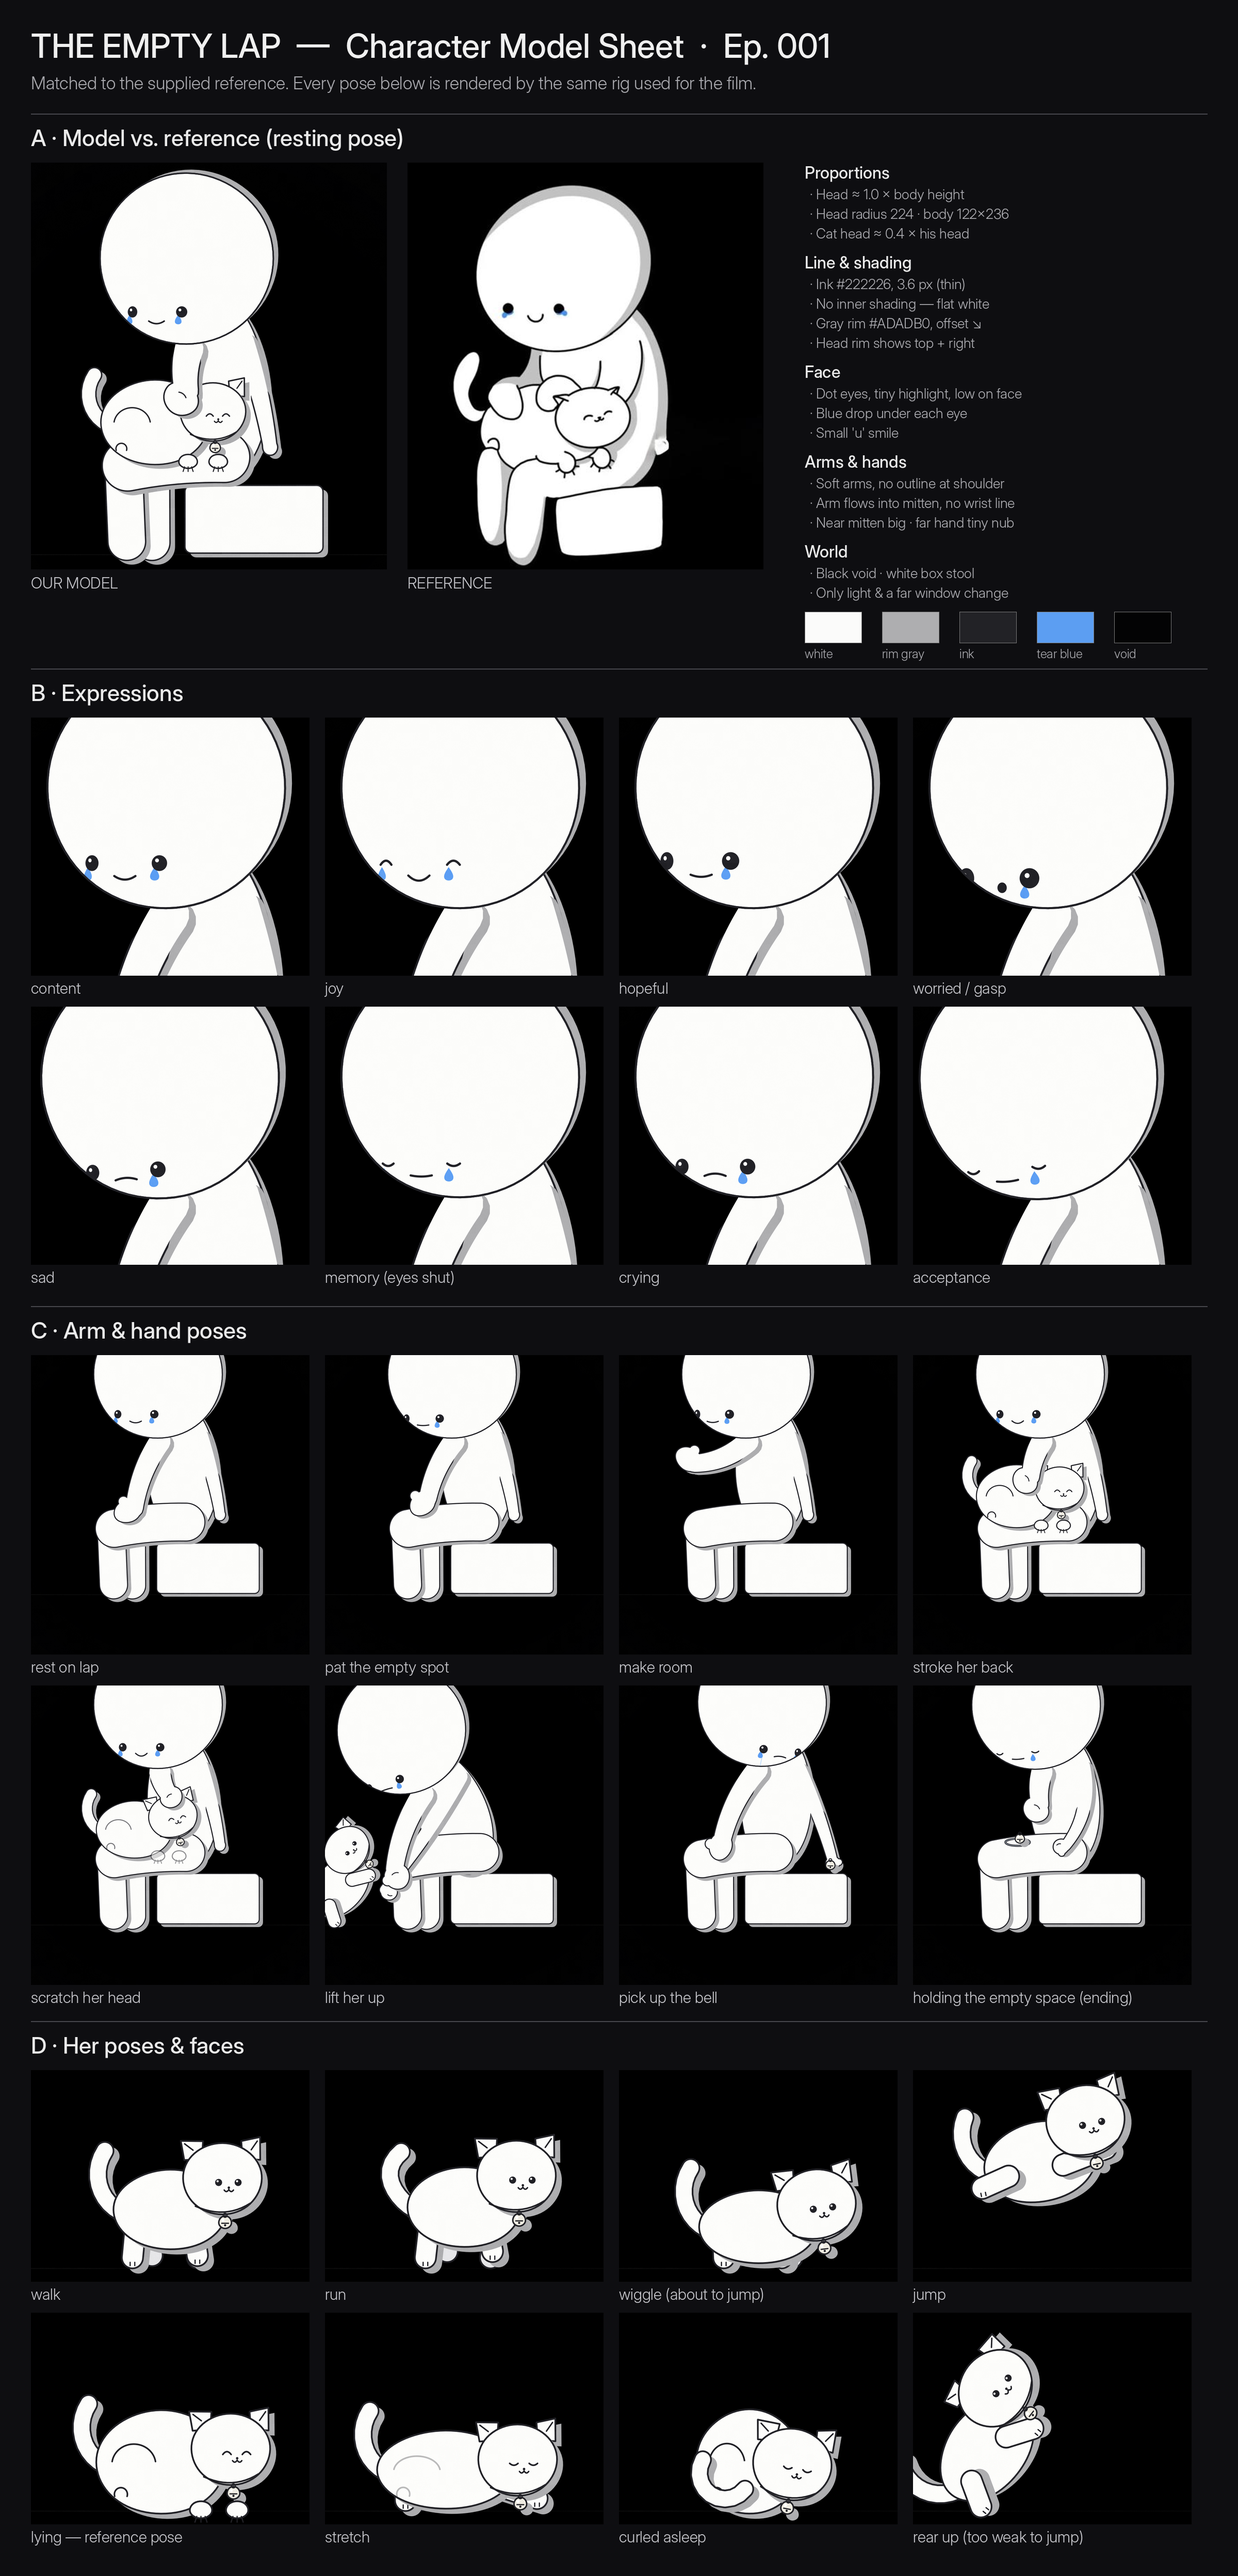
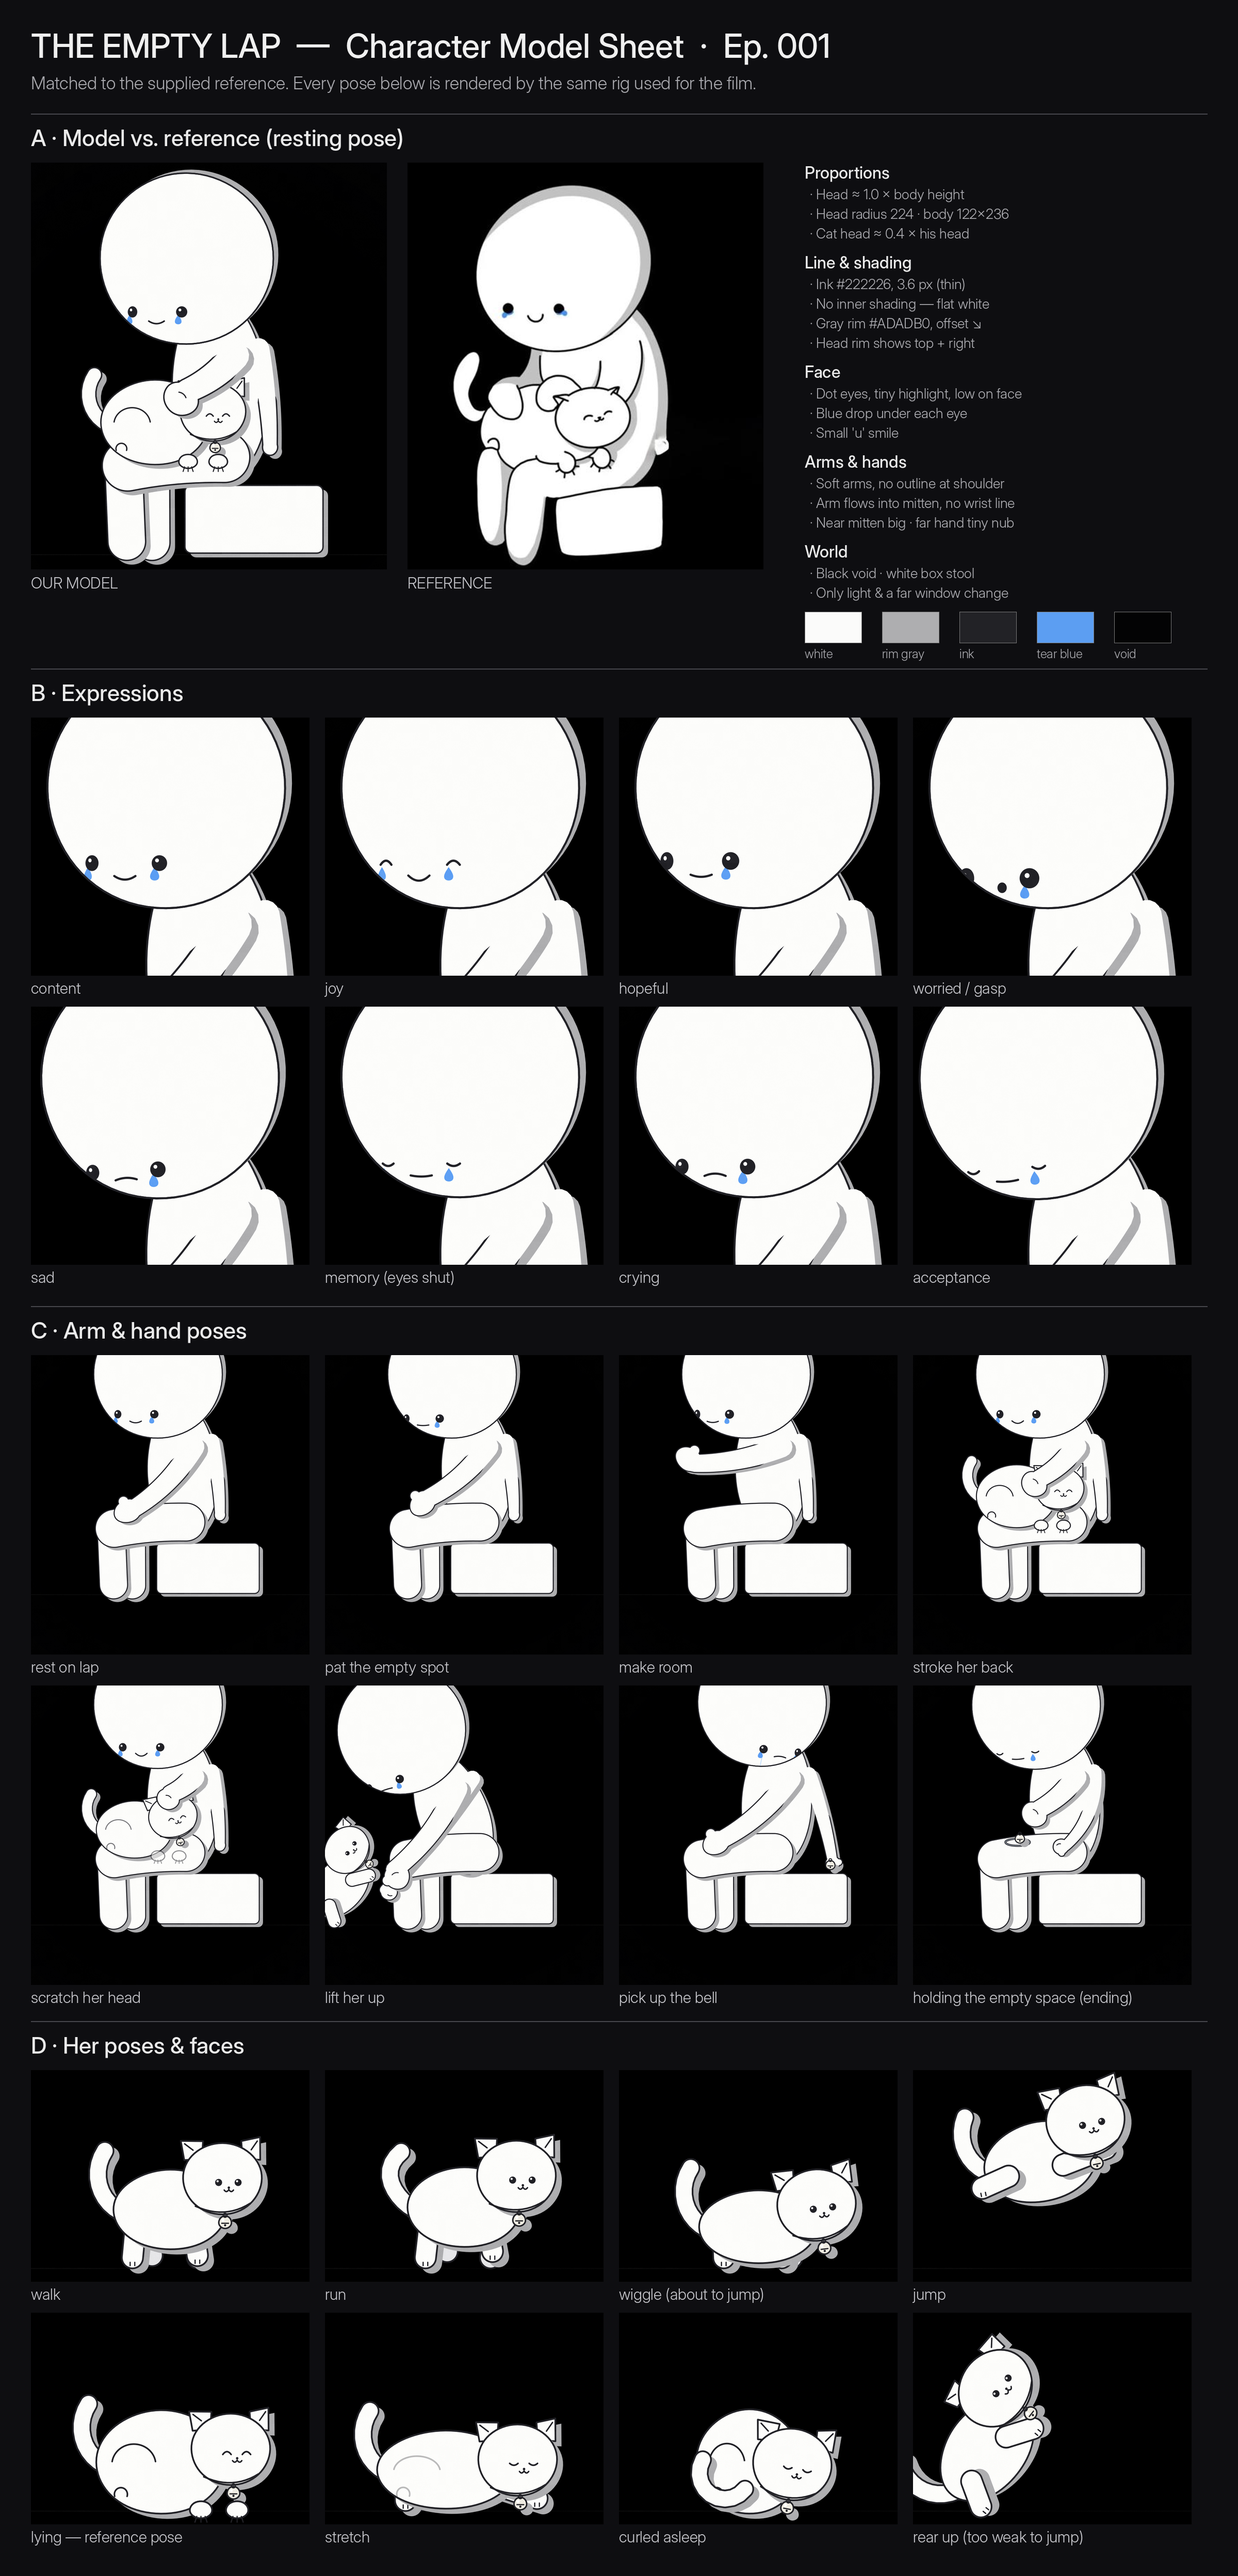
Move shoulders to the back of the torso; flip elbow bend; refresh character sheet
Claude-Session: https://claude.ai/code/session_018oS6WqQMgN1yqbFJbsPtb4

diff --git a/empty-lap/src/charsheet.py b/empty-lap/src/charsheet.py
@@ -137,11 +137,11 @@ def main(out):
         ("rest on lap", dict(near_hand=(470, 1392), near_hand_ang=2.75, near_style='rest'), None, None),
         ("pat the empty spot", dict(near_hand=(468, 1358), near_hand_ang=2.4, near_style='rest', pitch=0.2,
                                     yaw=-0.55, mouth=0.2), None, None),
-        ("make room", dict(near_hand=(372, 1236), near_hand_ang=-2.5, near_style='rest', near_bow=-0.18,
+        ("make room", dict(near_hand=(372, 1236), near_hand_ang=-2.5, near_style='rest', near_bow=-0.10,
                            yaw=-0.62, mouth=0.42, eye_scale=1.08), None, None),
-        ("stroke her back", dict(near_hand=(520, 1282), near_hand_ang=2.5, near_style='curl', mouth=0.9),
+        ("stroke her back", dict(near_hand=(548, 1290), near_hand_ang=2.3, near_style='curl', mouth=0.9),
          cat_on_lap(), None),
-        ("scratch her head", dict(near_hand=(586, 1232), near_hand_ang=0.9, near_style='curl', near_hr=34,
+        ("scratch her head", dict(near_hand=(596, 1236), near_hand_ang=2.0, near_style='curl', near_hr=34,
                                   mouth=1.0, yaw=-0.3, pitch=0.12), cat_on_lap(head_tilt=0.22, lie=0.6), None),
         ("lift her up", dict(lean=-0.30, crouch=0.65, near_hand=(352, 1500), near_hand_ang=1.2,
                              near_style='cup', far_hand=(318, 1570), far_style='cup', far_hr=26,
@@ -149,7 +149,7 @@ def main(out):
          cat_floor(x=276, rot=0.85, jump=0.5, ear_down=0.5, head_tilt=0.1), None),
         ("pick up the bell", dict(lean=0.10, yaw=0.45, pitch=0.3, far_hand=(852, 1462), far_style='grip',
                                   far_hr=24, far_hand_ang=1.4, mouth=-0.35, tear=1.0), None, 'hand'),
-        ("holding the empty space (ending)", dict(near_hand=(552, 1272), near_hand_ang=2.2, near_style='curl',
+        ("holding the empty space (ending)", dict(near_hand=(548, 1290), near_hand_ang=2.3, near_style='curl',
                                      far_hand=(640, 1418), far_hand_ang=3.0, far_style='cup', far_hr=24,
                                      far_bow=-0.25, blink=1.0, pitch=0.30, mouth=0.18, head_tilt=-0.06,
                                      tear=1.0), None, 'lap'),

diff --git a/empty-lap/src/scenes.py b/empty-lap/src/scenes.py
@@ -69,7 +69,7 @@ def look(L, bell='box', **kw):
 def char_base(t, seed=1, rate=1 / 3.6):
     return dict(yaw=-0.40, pitch=0.0, mouth=0.6, near_hand=REST_N, far_hand=REST_F,
                 breath=TAU * t * rate, blink=blink_auto(t, seed), closed_style='soft',
-                near_bow=0.12, far_bow=-0.10)
+                near_bow=-0.12, far_bow=-0.10)
 
 
 def cat_base(t):
@@ -333,7 +333,7 @@ def s4(t):
         w = seg(u, 5.0, 5.75)
         C['near_hand'] = lerp(kf(u, [(5.0, ROOM_N), (5.5, (420, 1360))]), (chest[0] - 10, chest[1]), w)
         C['far_hand'] = lerp(REST_F, (belly[0] + 10, belly[1] + 18), w)
-        C['near_bow'] = 0.18
+        C['near_bow'] = -0.16
     elif u >= 7.3:
         hd, _, _, _ = rig.cat_head_world(K)
         sp = ((u - 8.6) % 2.4) / 2.4 if u > 8.6 else 0.0
@@ -435,7 +435,7 @@ def s7(t):
                            (2.6, (505, 1355)), (3.6, (508, 1338))])
     C['far_bow'] = kf(u, [(0, -0.10), (1.2, -0.16), (2.3, 0.10), (3.6, 0.22)])
     C['near_hand'] = kf(u, [(0, REST_N), (2.3, REST_N), (3.6, (446, 1342))])
-    C['near_bow'] = kf(u, [(2.3, 0.12), (3.6, 0.55)])
+    C['near_bow'] = kf(u, [(2.3, -0.12), (3.6, -0.20)])
     C['sigh'] = window(u, 2.8, 3.6, 0.4)
     eyes = kf(u, [(3.0, 0.0), (3.5, 1.0)])
     C['blink'] = max(C['blink'], eyes)

diff --git a/empty-lap/src/rig.py b/empty-lap/src/rig.py
@@ -199,8 +199,8 @@ def char_geom(C):
     G['head_ang'] = a
     G['head'] = (G['neck'][0] + (-33 * math.cos(a) + 232 * math.sin(a)),
                  G['neck'][1] + (-33 * math.sin(a) - 232 * math.cos(a)))
-    G['sh_near'] = ub(C, (-96, -318 - 3 * b - 8 * sigh))
-    G['sh_far'] = ub(C, (44, -338 - 3 * b - 8 * sigh))
+    G['sh_near'] = ub(C, (22, -300 - 3 * b - 8 * sigh))
+    G['sh_far'] = ub(C, (84, -318 - 3 * b - 8 * sigh))
     return G
 
 
@@ -484,7 +484,7 @@ def draw_character_back(ctx, C, G, t):
 
 def draw_character_front(ctx, C, G, t):
     G['near_hand'] = draw_arm(ctx, G['sh_near'], C.get('near_hand', (585, 1285)),
-                              C.get('near_bow', 0.12), 74, C.get('near_hr', 40), t=t,
+                              C.get('near_bow', -0.12), 74, C.get('near_hr', 40), t=t,
                               hand_ang=C.get('near_hand_ang'), style=C.get('near_style', 'rest'),
                               thumb=C.get('near_thumb', 1), blend=0.30, taper=0.80, seed=5)
     draw_head(ctx, C, G, t)
